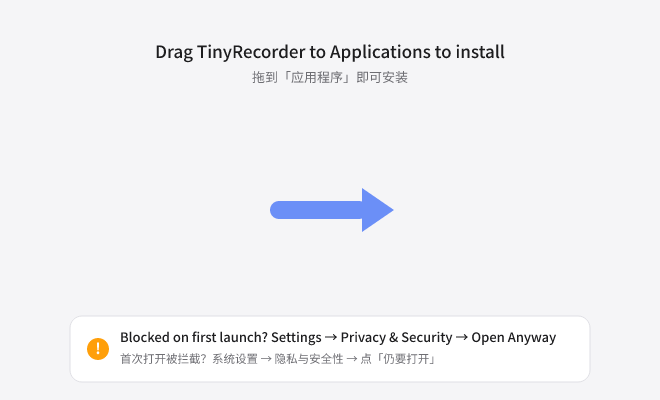
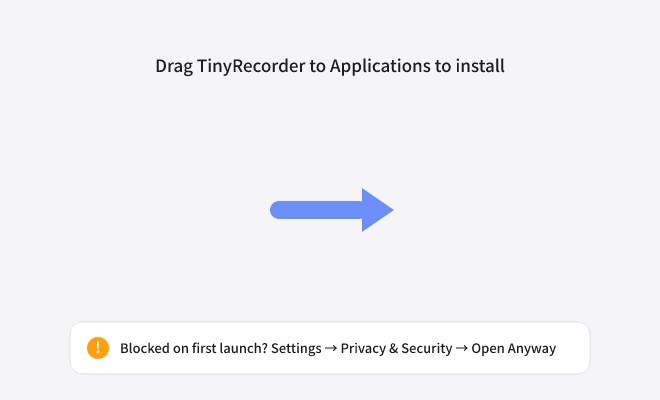
fix: one language per surface (DMG background, Share menu, README)
- DMG background: English only. It's a static image and can't follow the
  system language, so it uses the app's default language.
- Preview menu: "共享..." was hardcoded Chinese (from upstream) and showed for
  every language. Now "Share…", translated in zh-Hans / zh-Hant / it.
- README.md: drop the Chinese text mixed into the title and permissions table.
- CI: fail the build on CJK text in Swift string literals, so UI text always
  goes through Localizable.strings.

Changed region(s): [[0.1818, 0.81, 0.8485, 0.93], [0.2121, 0.09, 0.7879, 0.21], [0.1212, 0.84, 0.1515, 0.9]]

diff --git a/QuickRecorder/ViewModel/PreviewView.swift b/QuickRecorder/ViewModel/PreviewView.swift
@@ -113,7 +113,7 @@ struct PreviewView: View {
                 }
                 closeWindow()
             }
-            Button("共享...") { showSharingServicePicker(for: filePath.url) }
+            Button("Share…") { showSharingServicePicker(for: filePath.url) }
             Divider()
             if !trimAfterRecord {
                 Button("Trim") {

diff --git a/README.md b/README.md
@@ -1,6 +1,6 @@
 <p align="center">
 <h1 align="center">TinyRecorder</h1>
-<h3 align="center">A lightweight screen recorder for macOS, with macOS 27 support<br>轻量化多功能 macOS 录屏工具（支持 macOS 27）<br><a href="README_zh.md">[中文版本]</a>
+<h3 align="center">A lightweight screen recorder for macOS, with macOS 27 support<br><a href="README_zh.md">[简体中文]</a>
 </p>
 
 > **TinyRecorder** is a community fork of [QuickRecorder](https://github.com/lihaoyun6/QuickRecorder) by [lihaoyun6](https://github.com/lihaoyun6), which has been inactive since mid-2025.
@@ -48,9 +48,9 @@ Use **Check for Updates…** inside the app: no download, no Gatekeeper warning,
 
 | Permission | Needed for |
 |---|---|
-| Screen Recording (屏幕录制) | Recording screen / window / app / system audio |
-| Microphone (麦克风) | Recording your voice |
-| Camera (摄像头) | Camera overlay / Presenter Overlay |
+| Screen Recording | Recording screen / window / app / system audio |
+| Microphone | Recording your voice |
+| Camera | Camera overlay / Presenter Overlay |
 
 ### First-launch setup
 
